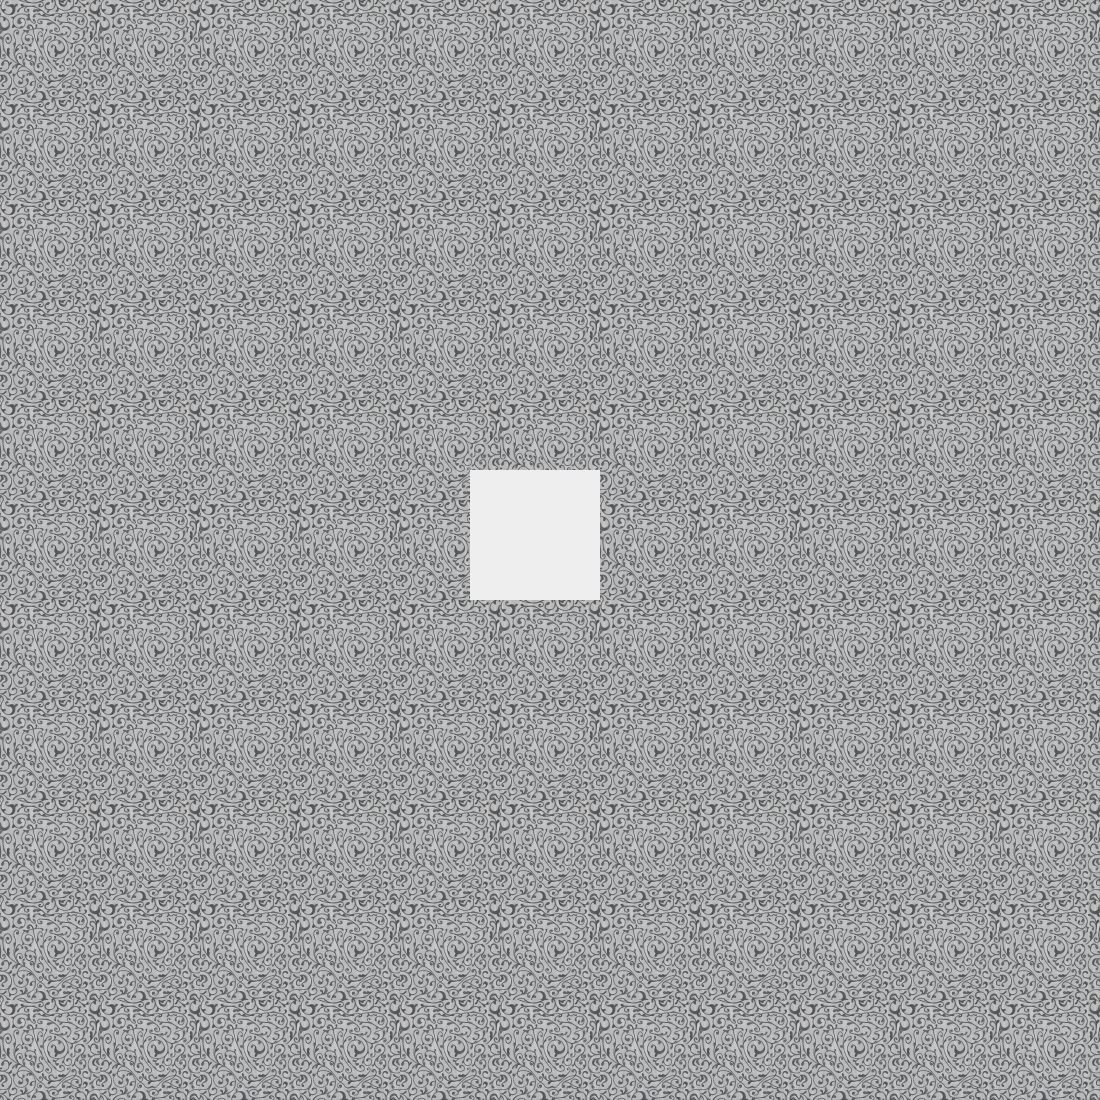
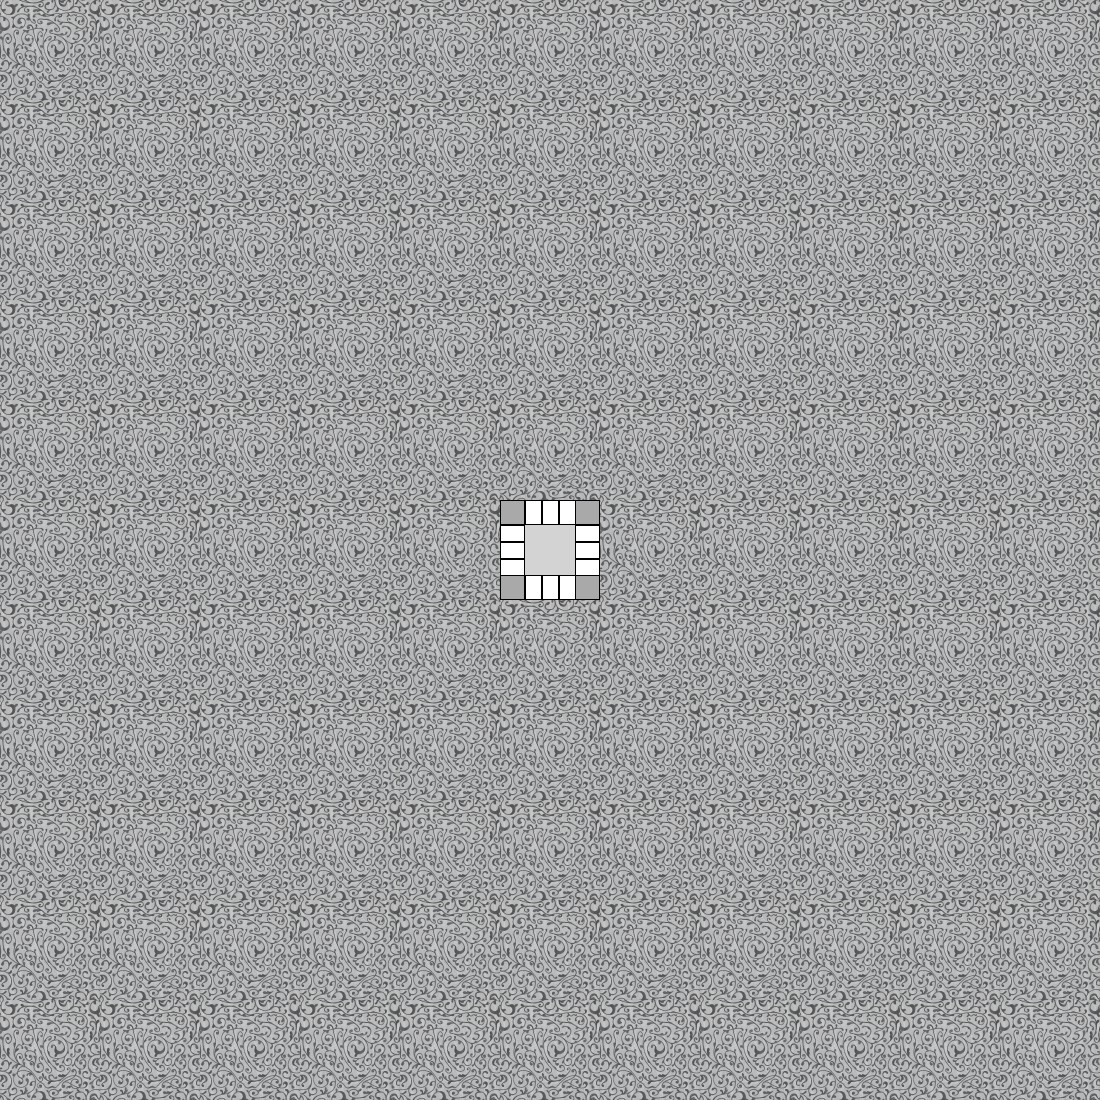
Last commit of the day
For tommorrow :
- debug the domino tile not rendering

Changed region(s): [[0.4018, 0.4018, 0.5564, 0.5564]]

diff --git a/Graphic/GamePanel.java b/Graphic/GamePanel.java
@@ -13,9 +13,9 @@ import java.io.File;
 import java.io.IOException;
 
 public class GamePanel extends JPanel {
-    private Game game;
+    private final Game game;
     private BufferedImage content;
-    private MainWindow parent;
+    private final MainWindow parent;
     private JPanel hand;
 
     private double zoomFactor = 1;
@@ -71,6 +71,7 @@ public class GamePanel extends JPanel {
 
                     } else {
                         oPanelTemp = this.game.getGrid().getTileByXY(i, j).getGraphic();
+                        WindowManagement.saveImageFromPanel(oPanelTemp, "domino" + (i+j) + ".png");
                     }
 
                     this.add(oPanelTemp);
@@ -87,12 +88,7 @@ public class GamePanel extends JPanel {
     private BufferedImage getScreenShot(JPanel panel){
         BufferedImage bi = new BufferedImage(panel.getWidth(), panel.getHeight(), BufferedImage.TYPE_INT_ARGB);
         panel.paint(bi.getGraphics());
-        try {
-            File outputfile = new File("saved.png");
-            ImageIO.write(bi, "png", outputfile);
-        } catch (IOException e) {
-            e.printStackTrace();
-        }
+        WindowManagement.saveImageFromPanel(panel, "grid.png");
         return bi;
     }
 

diff --git a/Common/WindowManagement.java b/Common/WindowManagement.java
@@ -1,13 +1,32 @@
 package Common;
 
+import javax.imageio.ImageIO;
+import javax.swing.*;
 import java.awt.*;
+import java.awt.image.BufferedImage;
+import java.io.File;
+import java.io.IOException;
 
 public class WindowManagement {
+    private static final boolean debug = true;
 
     public static Container getMasterParentWindow(Container startContainer) {
         while (startContainer.getParent() != null) {
             startContainer = startContainer.getParent();
         }
         return startContainer;
+    }
+
+    public static void saveImageFromPanel(JPanel panel, String outputName) {
+        if (!debug) {
+            return;
+        }
+        BufferedImage bi = new BufferedImage(panel.getWidth(), panel.getHeight(), BufferedImage.TYPE_INT_ARGB);
+        try {
+            File outputfile = new File(outputName);
+            ImageIO.write(bi, "png", outputfile);
+        } catch (IOException e) {
+            e.printStackTrace();
+        }
     }
 }
